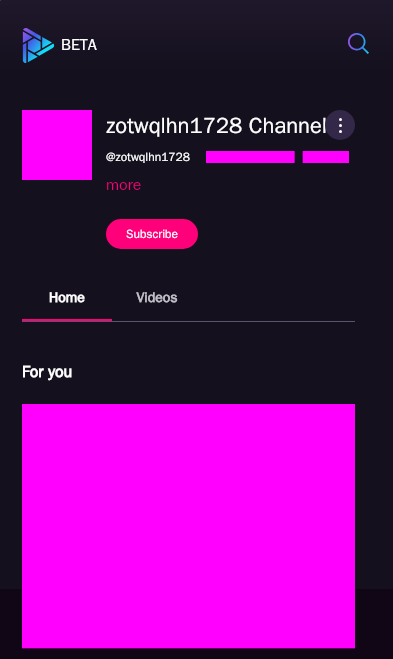
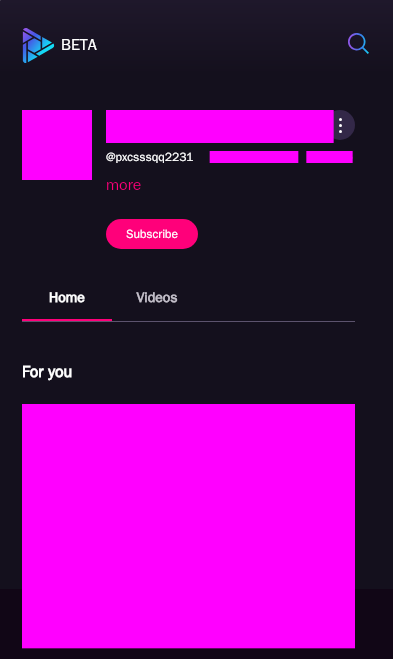
fix_visual

Changed region(s): [[0.2443, 0.1517, 0.855, 0.2428], [0.8855, 0.2124, 0.916, 0.2428]]

diff --git a/tests/visualSuite/mobile/visualSuites.spec.ts b/tests/visualSuite/mobile/visualSuites.spec.ts
@@ -49,7 +49,8 @@ test.describe('Mobile visual tests', () => {
         await expect(page).toHaveScreenshot({
             mask: [
                 page.locator('[data-id="recommended-videos"]'),
-                page.locator('[aria-label="Video Player"]')
+                page.locator('[aria-label="Video Player"]'),
+                page.locator('[data-id="name"]')
             ],
             maxDiffPixelRatio: 0.02
         });
@@ -67,7 +68,8 @@ test.describe('Mobile visual tests', () => {
         await expect(page).toHaveScreenshot({
             mask: [
                 page.locator('[data-id="recommended-videos"]'),
-                page.locator('[aria-label="Video Player"]')
+                page.locator('[aria-label="Video Player"]'),
+                page.locator('[data-id="name"]')
             ],
             maxDiffPixelRatio: 0.02
         });
@@ -88,7 +90,8 @@ test.describe('Mobile visual tests', () => {
                 page.locator('[data-id="video"]'),
                 page.locator('[data-id="avatar"]'),
                 page.locator('[data-id="count"]'),
-                page.locator('[data-id="subscribers"]')
+                page.locator('[data-id="subscribers"]'),
+                page.locator('[data-id="name"]')
             ],
             maxDiffPixelRatio: 0.02
         });
@@ -110,7 +113,8 @@ test.describe('Mobile visual tests', () => {
                 page.locator('[data-id="video"]'),
                 page.locator('[data-id="avatar"]'),
                 page.locator('[data-id="count"]'),
-                page.locator('[data-id="subscribers"]')
+                page.locator('[data-id="subscribers"]'),
+                page.locator('[data-id="name"]')
             ],
             maxDiffPixelRatio: 0.02
         });